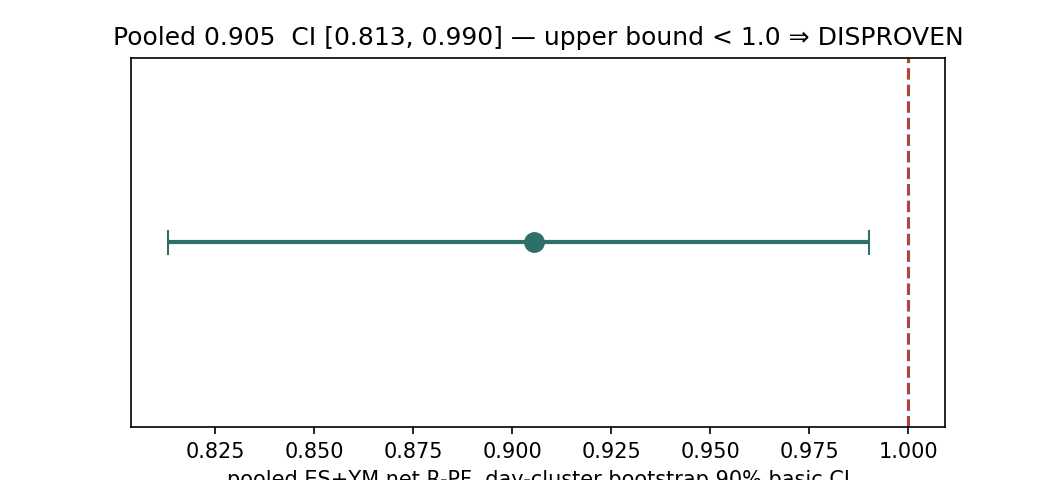
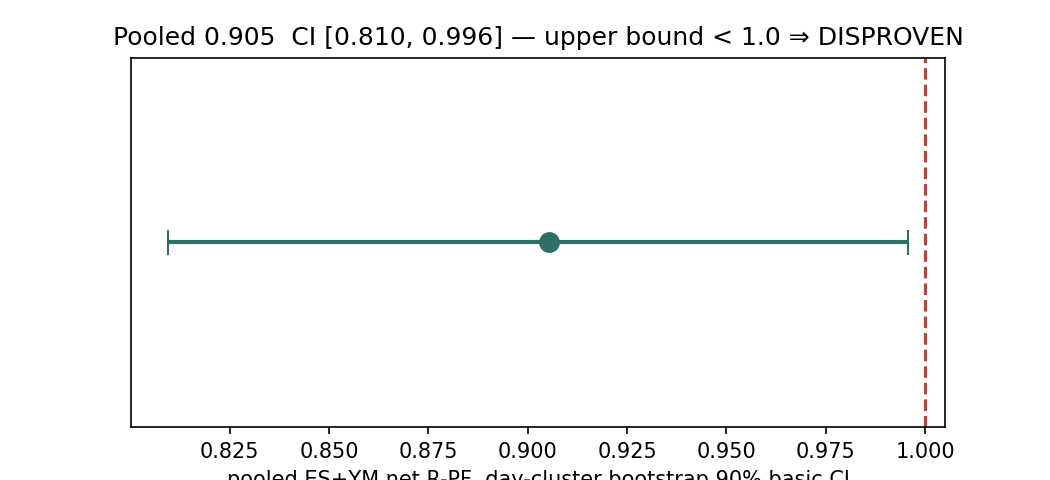
feat: final Phase 6 results with frozen joint day-cluster CI
DISPROVEN confirmed under the exact frozen method: pooled ES+YM net R-PF
0.905, joint day-cluster 90% CI [0.810, 0.996] (upper < 1.0, clause b).
Matches the final reviewer's independent robustness check to 4 decimals.
All three runs (original, label-fix, method-fix) agree on the verdict.

diff --git a/README.md b/README.md
@@ -142,7 +142,7 @@ instrument. Pre-registered via a git-timestamped freeze
 hash-verifies and refuses to run on mismatch).
 
 **Verdict: DISPROVEN.** Pooled ES+YM net R-multiple profit factor **0.905**,
-day-cluster bootstrap 90% CI **[0.813, 0.990]** — the upper bound is below
+joint day-cluster bootstrap 90% CI **[0.810, 0.996]** — the upper bound is below
 breakeven, so with high confidence the tuned strategy loses net of costs on
 independent data (1,402 OOS trades / 1,005 trade-days). On clean NQ the
 tuned procedure is *worse* than base (0.851 vs 0.899). Both fixed-config

diff --git a/WRITEUP_PHASE6.md b/WRITEUP_PHASE6.md
@@ -6,7 +6,7 @@
 independent instruments. Across ~10 years and two independent equity-index futures (ES, YM;
 17 walk-forward folds each; 1,402 tuned out-of-sample trades over 1,005 trade-days), the frozen
 Phase-5 procedure's pooled net R-multiple profit factor is **0.905**, with a day-cluster bootstrap
-90% CI of **[0.813, 0.990]** — the **upper bound is below breakeven**, firing the pre-registered
+90% CI of **[0.810, 0.996]** — the **upper bound is below breakeven**, firing the pre-registered
 DISPROVEN clause (b): with high confidence, the tuned strategy loses money net of costs on data it
 has never seen. Both fixed-config replications also fail (B1 `partial_1R+p50`: pooled R-PF 0.904,
 Bonferroni CI-low 0.794; B2 `trail_swing+p50`: 0.836, CI-low 0.726 — "not supported").